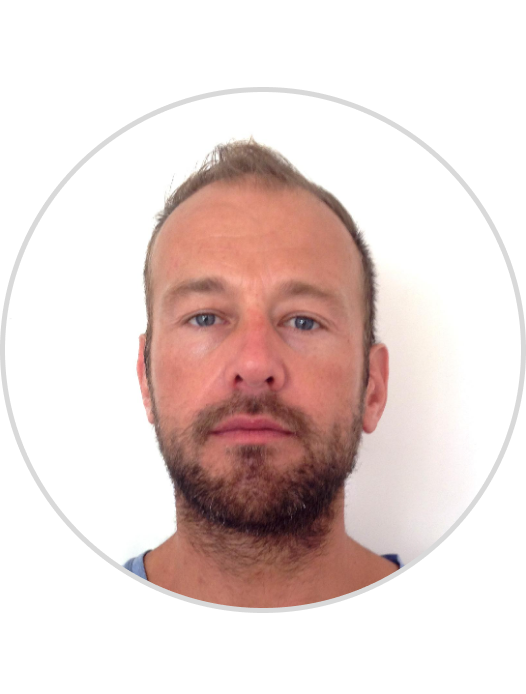
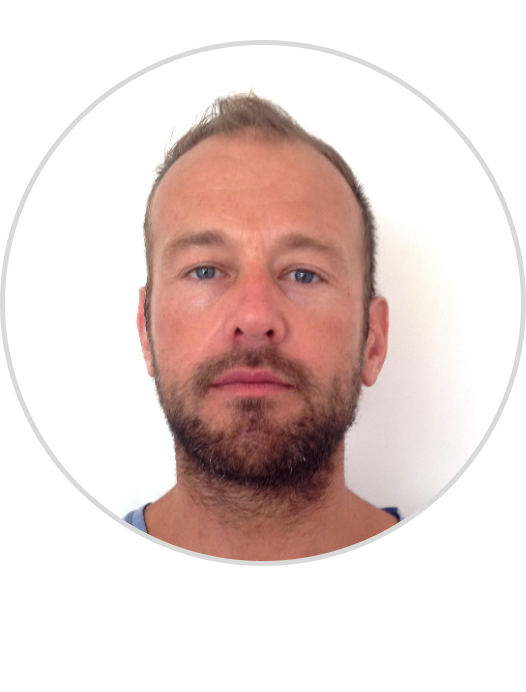
aS

diff --git a/index.html b/index.html
@@ -45,7 +45,7 @@
            
            style="max-width: 290px; height: auto;">
     </div>
-                <div class="masthead-subheading">Hi there, I’m Matthew Williams. <br><br>I'm a UX researcher and designer who helps organisations design clear, human-centred digital experiences that make complex things feel simple.<br><br>
+                <div class="masthead-subheading">Hi there, I’m Matthew Williams. <br><br>I do User Research and Experience Design to help organisations design clear, human-centred digital experiences that make complex things feel simple.<br><br>
 
 I see design as an ongoing conversation between people and systems - a way of translating needs, behaviours, and insights into experiences that feel natural and useful. My process is grounded in curiosity and collaboration: listening, mapping, testing, and shaping ideas into flows that work intuitively across devices.<br><br>
 
